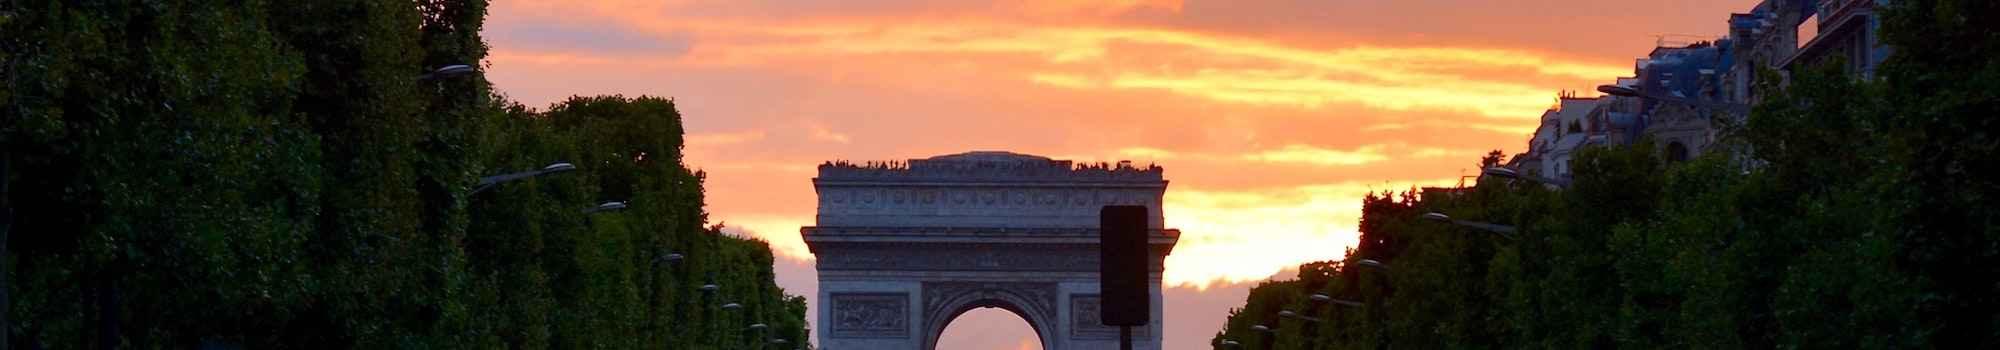
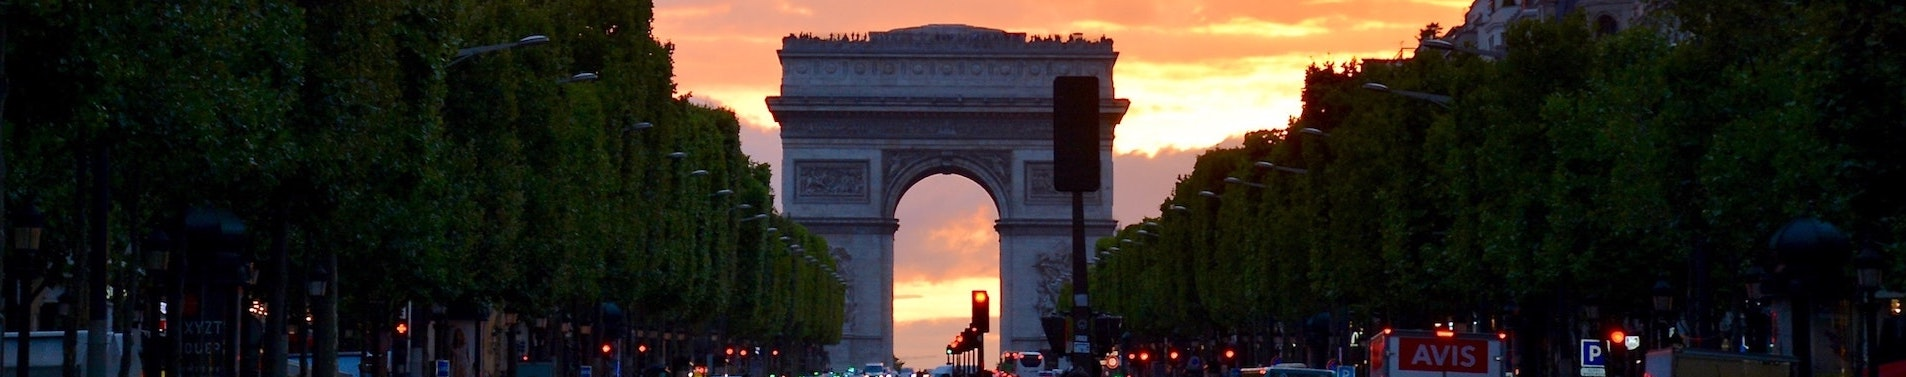
style: 마켓플레이스 section1 파리 이미지 변경, 티켓팅시, sidebar에서 list변경될때마다 info, 이미지 변경

diff --git a/Unleash_client/src/resources/css/App.css b/Unleash_client/src/resources/css/App.css
@@ -715,6 +715,7 @@
   display: flex;
   flex-direction: column;
   margin-right: 50px;
+  margin-bottom: 70px;
 }
 .marketplace_description_eth span {
   color: rgb(40, 65, 80);
@@ -1462,6 +1463,7 @@
   width: 100%;
   height: 300px;
   box-sizing: border-box;
+  box-shadow: 2px 4px 10px #c7b9b9;
   border-bottom-left-radius: 800px;
   border-bottom-right-radius: 800px;
 }
@@ -1478,21 +1480,6 @@
   height: 100%;
   font-weight: 600;
   text-shadow: 0 0 2px black, 0 0 4px black, 0 0 8px black,0 0 20px black;
-}
-
-.marketplacep2p_nfts {
-  display: grid;
-  grid-template-columns: repeat(auto-fill,minmax(300px,1fr));
-  grid-gap: 50px;
-  gap: 50px;
-  justify-items: center;
-  margin: 50px;
-  padding: 100px;
-  justify-content: center;
-  background-color: #FBAB7E;
-  background-image: linear-gradient(190deg, #FBAB7E 0%, #F7CE68 100%);
-  box-shadow: 0 0 2px black, 0 0 4px black;
-  border-radius: 10px
 }
 
 .marketplacep2p_info {
@@ -1540,7 +1527,7 @@
   left: 41%;
   width: 250px;
   background-color: white;
-  box-shadow: 0 0 2px , 0 0 4px, 0 0 8px;
+  box-shadow: 1px 2px 6px #c7b9b9;
   border-radius: 10px;
   margin-top: 40px;
   color: rgb(40, 65, 80);
@@ -1559,6 +1546,21 @@
     transform: translateX(0%);
     font-style: normal;
   }
+}
+
+.marketplacep2p_nfts {
+  display: grid;
+  grid-template-columns: repeat(auto-fill,minmax(300px,1fr));
+  grid-gap: 50px;
+  gap: 50px;
+  justify-items: center;
+  margin: 50px;
+  padding: 100px;
+  justify-content: center;
+  background-color: #FBAB7E;
+  background-image: linear-gradient(174.2deg, rgb(255, 244, 228) 7.1%, rgb(240, 246, 238) 67.4%);
+  box-shadow: 1px 2px 6px #c7b9b9;
+  border-radius: 10px
 }
 
 

diff --git a/Unleash_client/src/components/MarketPlace_components/MarketPlaceSection1.jsx b/Unleash_client/src/components/MarketPlace_components/MarketPlaceSection1.jsx
@@ -17,7 +17,7 @@ const MarketPlaceSection1 = () => {
     if (list[0].to === "CDG") return setDestination(parisDummy);
     if (list[0].to === "SYD") return setDestination(sydneyDummy);
     if (list[0].to === "FCO") return setDestination(romaDummy);
-  }, [destination]);
+  }, [destination, list]);
 
   return (
     <>

diff --git a/Unleash_client/src/components/MarketPlace_components/MarketPlaceInfo.jsx b/Unleash_client/src/components/MarketPlace_components/MarketPlaceInfo.jsx
@@ -20,7 +20,7 @@ const MarketPlaceInfo = () => {
     if (list[0].to === "CDG") return setDestination(parisDummy);
     if (list[0].to === "SYD") return setDestination(sydneyDummy);
     if (list[0].to === "FCO") return setDestination(romaDummy);
-  }, [destination]);
+  }, [destination, list]);
 
   return (
     <>
